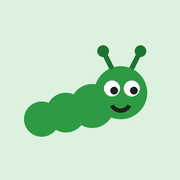
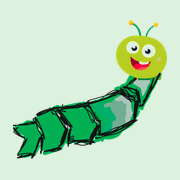
Eigener Prozesswurm als Bild und App-Symbol

Changed region(s): [[0.0556, 0.1111, 0.9444, 0.8889]]

diff --git a/index.html b/index.html
@@ -59,7 +59,8 @@ button:focus-visible,textarea:focus-visible,a:focus-visible{outline:3px solid va
 
 /* Kopf */
 .top{display:flex;align-items:center;gap:14px}
-.top svg{flex:none}
+.top .wimg{flex:none}
+.wimg{object-fit:contain;display:block}
 .top h1{font-size:28px;font-weight:800}
 .top p{margin:2px 0 0;color:var(--muted);font-size:15px}
 .stats{display:grid;grid-template-columns:repeat(3,1fr);gap:8px;margin-top:18px}
@@ -82,7 +83,7 @@ button:focus-visible,textarea:focus-visible,a:focus-visible{outline:3px solid va
 .layer[data-l="0"] .code{background:var(--l1);color:var(--fg)} .layer[data-l="1"] .code{background:var(--l2);color:var(--fg)}
 .layer[data-l="2"] .code{background:var(--l3);color:var(--fg)} .layer[data-l="3"] .code{background:var(--l4)}
 .layer[data-l="4"] .code{background:var(--l5)} .layer[data-l="5"] .code{background:var(--l6)}
-.layer .code svg{position:absolute;right:-18px;bottom:6px;z-index:2}
+.layer .code .wimg{position:absolute;right:-18px;bottom:6px;z-index:2}
 .layer .body{padding:12px 14px;min-width:0}
 .layer h3{font-size:17px;font-weight:800}
 .layer p{margin:2px 0 0;font-size:14px;color:var(--muted)}
@@ -126,7 +127,7 @@ button:focus-visible,textarea:focus-visible,a:focus-visible{outline:3px solid va
 .example{background:var(--surface);border:1px solid var(--line);border-radius:var(--r);padding:14px 16px}
 .song{display:inline-flex;gap:8px;align-items:center;margin-top:4px;font-weight:700;font-size:14.5px}
 .aha{margin-top:24px;padding:20px 18px;border-radius:var(--r);background:var(--worm-soft);color:var(--worm-ink);font-family:var(--display);font-weight:800;font-size:21px;line-height:1.25;display:flex;gap:12px;align-items:flex-start}
-.aha svg{flex:none;margin-top:2px}
+.aha .wimg{flex:none;margin-top:2px}
 textarea{width:100%;min-height:92px;resize:vertical;border:1px solid var(--line);border-radius:10px;background:var(--surface);color:var(--fg);padding:10px 12px;font:inherit;font-size:15px}
 .hint{font-size:13px;color:var(--muted);margin-top:4px}
 .tpl{background:var(--surface);border:1px dashed var(--soil);border-radius:var(--r);padding:14px}
@@ -145,7 +146,7 @@ pre{white-space:pre-wrap;background:var(--sunk);border-radius:10px;padding:12px;
 .opt[disabled]{cursor:default}
 .fb{margin-top:10px;font-size:14.5px;display:flex;gap:10px;align-items:flex-start}
 .fb.k{color:var(--kuddel)} .fb.w{color:var(--worm-ink)}
-.fb svg{flex:none}
+.fb svg,.fb .wimg{flex:none}
 .reveal{border:2px dashed var(--line);background:var(--bg);border-radius:10px;padding:10px 12px;width:100%;text-align:left;color:var(--muted);font-weight:700}
 .answer{border-left:4px solid var(--worm);padding:6px 0 6px 12px;color:var(--fg)}
 .primary{display:block;width:100%;margin-top:22px;border:0;border-radius:12px;padding:14px;background:var(--worm);color:#fff;font-family:var(--display);font-weight:800;font-size:17px}
@@ -223,7 +224,7 @@ pre{white-space:pre-wrap;background:var(--sunk);border-radius:10px;padding:12px;
 
 <div class="app">
   <header class="top">
-    <svg width="64" height="48" aria-hidden="true"><use href="#wurm"/></svg>
+    <img src="wurm.png" width="72" height="65" alt="Prozesswurm" class="wimg">
     <div>
       <div class="eyebrow">Prozesswurm Lernwerkstatt</div>
       <h1>SALVE!</h1>
@@ -445,7 +446,7 @@ function renderLadder(){
     const state = n===tot ? `<span class="chip ok">geschafft</span>` : (i===cur ? `<span class="chip ok">du bist hier</span>` : ``);
     const br = lv.branches ? `<span class="branches">${lv.branches.map(b=>`<span class="chip">${esc(b.name)} ${countDone(b.ids)}/${b.ids.length}</span>`).join('')}</span>` : ``;
     return `<button type="button" class="layer" data-l="${i}" aria-label="Stufe ${lv.code}: ${esc(lv.name)}">
-      <span class="code">${lv.code}${i===cur?`<svg width="40" height="30" aria-hidden="true"><use href="#wurm"/></svg>`:''}</span>
+      <span class="code">${lv.code}${i===cur?`<img src="wurm.png" width="40" height="36" alt="" class="wimg">`:''}</span>
       <span class="body"><h3>${esc(lv.name)}</h3><p>${esc(lv.sub)}</p>${br}
       <span class="row"><span class="bar"><i style="width:${n/tot*100}%"></i></span><span>${n} / ${tot}</span>${state}</span></span></button>`;
   }).join('');
@@ -509,7 +510,7 @@ function openLesson(id){
     <div class="block"><h3>Mini-Übung</h3><p>${esc(l.task)}</p>
       <textarea id="note-${id}" placeholder="Deine Antwort, nur für dich">${esc(S.notes[id]||'')}</textarea>
       <div class="hint">Bleibt in diesem Browser gespeichert.</div></div>
-    <div class="aha"><svg width="44" height="33" aria-hidden="true"><use href="#wurm"/></svg><span>${esc(l.aha)}</span></div>
+    <div class="aha"><img src="wurm.png" width="48" height="44" alt="" class="wimg"><span>${esc(l.aha)}</span></div>
     ${l.tpl?`<div class="block"><h3>Zum Mitnehmen</h3><div class="tpl"><div class="copy-row"><b>${esc(l.tpl[0])}</b>
       <button type="button" class="secondary copy" data-copy="tpl-${id}">Kopieren</button></div><pre id="tpl-${id}">${esc(l.tpl[1])}</pre></div></div>`:''}
     <div class="block"><h3>Kurzer Check</h3>${checks}</div>
@@ -526,7 +527,7 @@ function openLesson(id){
     qEl.querySelectorAll('.opt').forEach(b=>b.onclick=()=>{
       const oi=+b.dataset.o, fb=qEl.querySelector('.fb'); fb.hidden=false;
       if(oi===q.a){ qEl.querySelectorAll('.opt').forEach(x=>x.disabled=true); b.classList.add('right');
-        fb.className='fb w'; fb.innerHTML=`<svg width="32" height="24" aria-hidden="true"><use href="#wurm"/></svg><span>${pick(WURM)}</span>`; got.add(qi); unlock();
+        fb.className='fb w'; fb.innerHTML=`<img src="wurm.png" width="30" height="27" alt="" class="wimg"><span>${pick(WURM)}</span>`; got.add(qi); unlock();
       } else { b.classList.add('wrong'); b.disabled=true;
         fb.className='fb k'; fb.innerHTML=`<svg width="26" height="26" aria-hidden="true"><use href="#kuddel"/></svg><span>${pick(KUDDEL)}</span>`; }
     });
@@ -560,7 +561,7 @@ function renderDeck(){
   const dots = `<div class="dots" aria-hidden="true">${set.map(i=>`<i class="${S.known.includes(i)?'k':''} ${queue[pos]===i?'c':''}"></i>`).join('')}</div>`;
   if(!queue.length || pos>=queue.length){
     const all = set.every(i=>S.known.includes(i));
-    d.innerHTML = `${dots}<div class="done-box"><svg width="64" height="48" aria-hidden="true"><use href="#wurm"/></svg>
+    d.innerHTML = `${dots}<div class="done-box"><img src="wurm.png" width="72" height="65" style="margin:0 auto" alt="" class="wimg">
       <h3 style="margin-top:8px">${all?`Alle Begriffe hier sitzen.`:`Runde geschafft.`}</h3>
       <p class="hint">${all?`Mit „Von vorn“ kannst du jederzeit wiederholen.`:`Die Karten, die noch nicht sitzen, kommen jetzt nochmal.`}</p>
       ${all?'':'<button type="button" class="know" id="nextRound" style="margin-top:12px;width:100%">Nächste Runde</button>'}</div>`;
